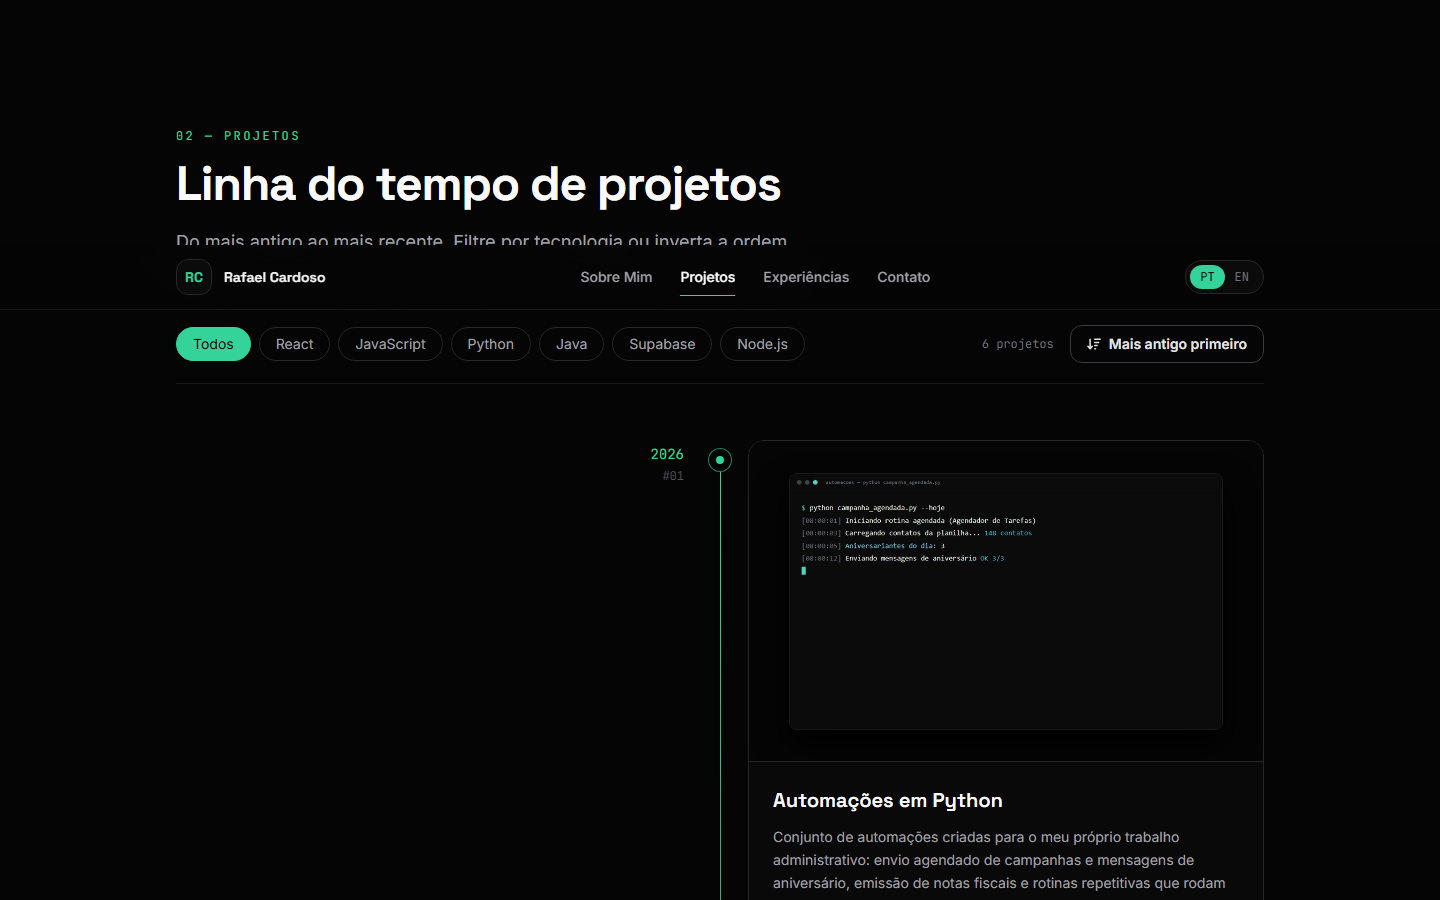
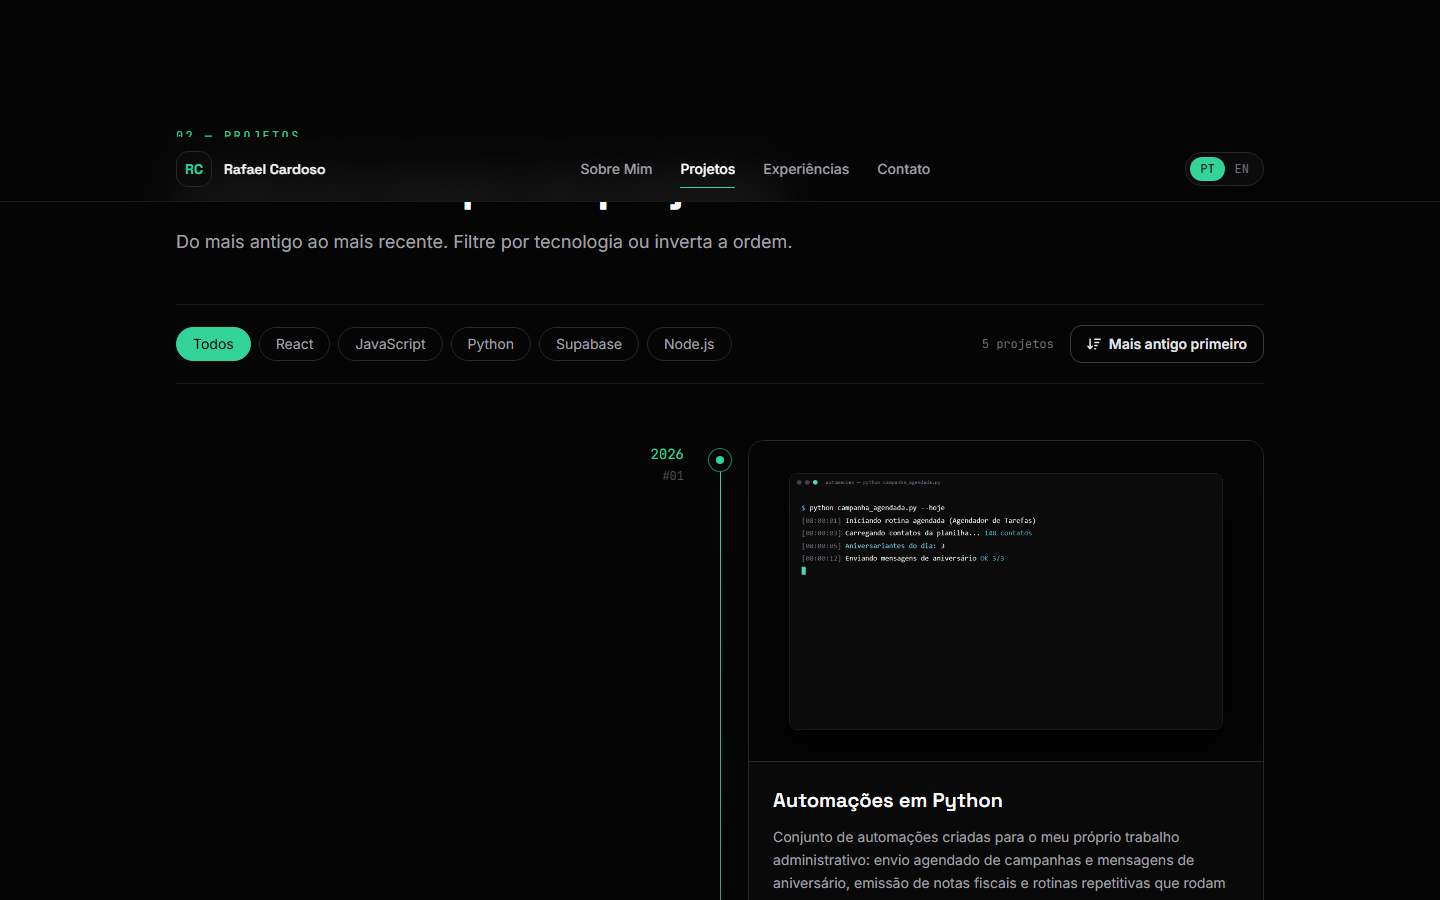
refactor: remove projeto API Clima da timeline

diff --git a/src/data/projects.js b/src/data/projects.js
@@ -56,20 +56,6 @@ export const projects = [
     live: null,
   },
   {
-    id: 'api-clima',
-    name: { pt: 'API Clima', en: 'Weather API' },
-    date: '2026-08-24',
-    period: { pt: 'Ago 2026', en: 'Aug 2026' },
-    description: {
-      pt: 'Projeto acadêmico em dupla na PUC Minas: aplicação Java que consome uma API de previsão do tempo, trata a resposta e exibe as informações climáticas de uma cidade.',
-      en: 'Academic pair project at PUC Minas: a Java application that consumes a weather forecast API, parses the response and displays the weather of a given city.',
-    },
-    tech: ['Java', 'REST API', 'JSON'],
-    image: '/projects/api-clima.gif',
-    repo: 'https://github.com/RafaelCardoso25/API-clima',
-    live: null,
-  },
-  {
     id: 'sites-empresas',
     name: { pt: 'Sites para Empresas', en: 'Business Websites' },
     date: '2026-09-10',

diff --git a/src/i18n/translations.js b/src/i18n/translations.js
@@ -27,7 +27,7 @@ export const translations = {
       ],
       highlights: [
         { value: '2º', label: 'período de Engenharia de Software' },
-        { value: '6+', label: 'projetos desenvolvidos' },
+        { value: '5', label: 'projetos desenvolvidos' },
         { value: '6 meses', label: 'de intercâmbio nos EUA' },
       ],
       interestsTitle: 'Interesses',
@@ -128,7 +128,7 @@ export const translations = {
       ],
       highlights: [
         { value: '2nd', label: 'semester of Software Engineering' },
-        { value: '6+', label: 'projects built' },
+        { value: '5', label: 'projects built' },
         { value: '6 months', label: 'exchange program in the USA' },
       ],
       interestsTitle: 'Interests',
